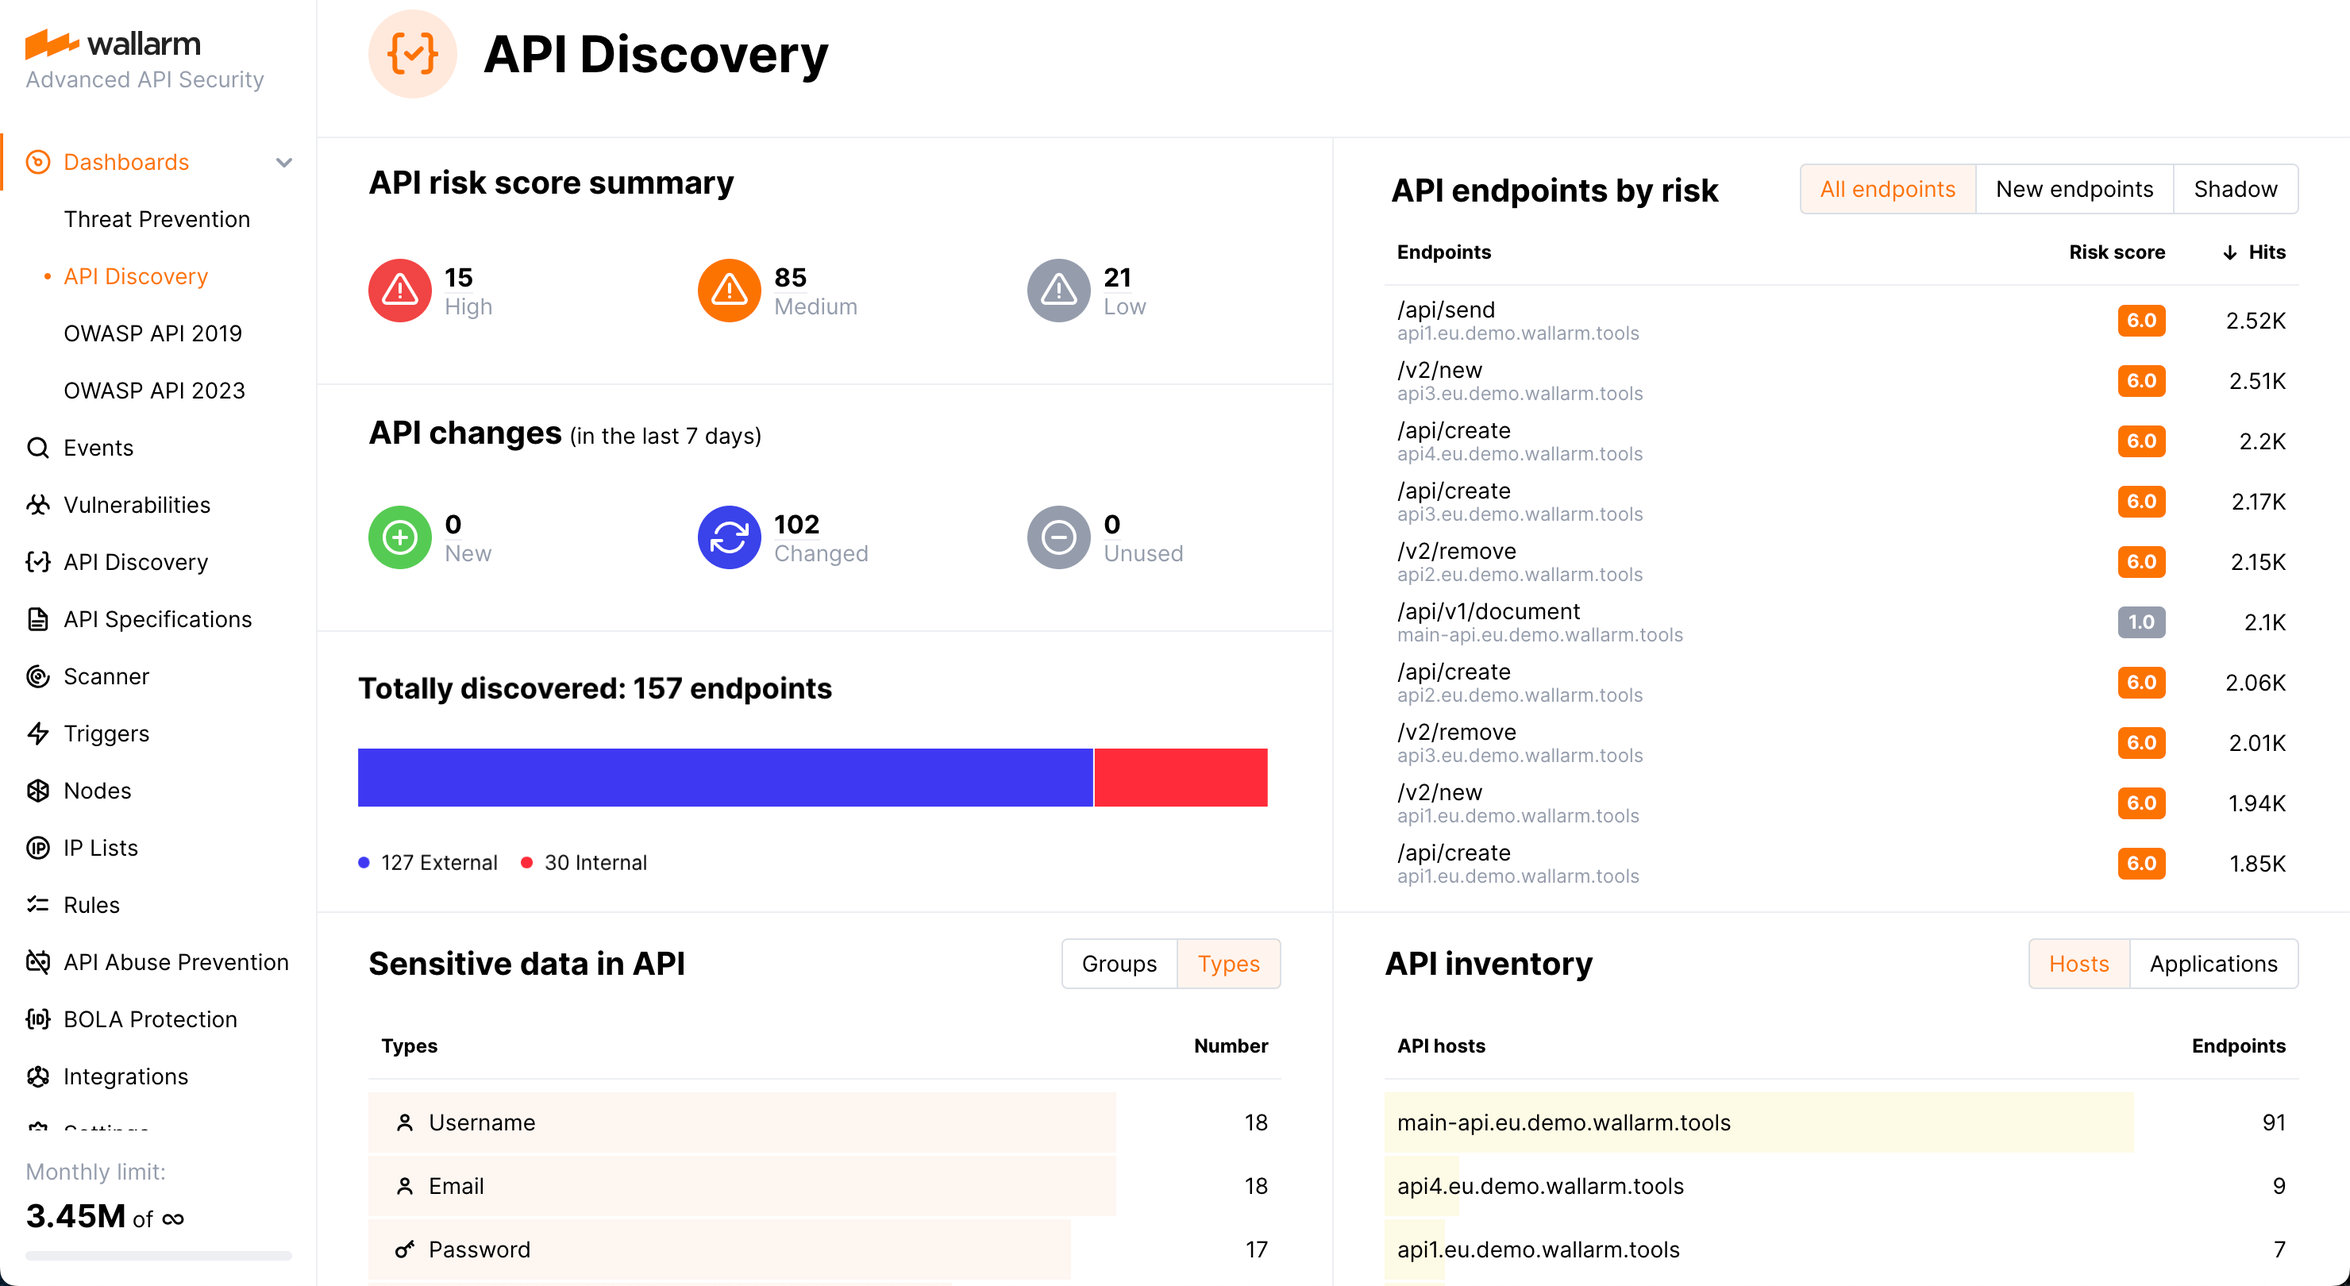
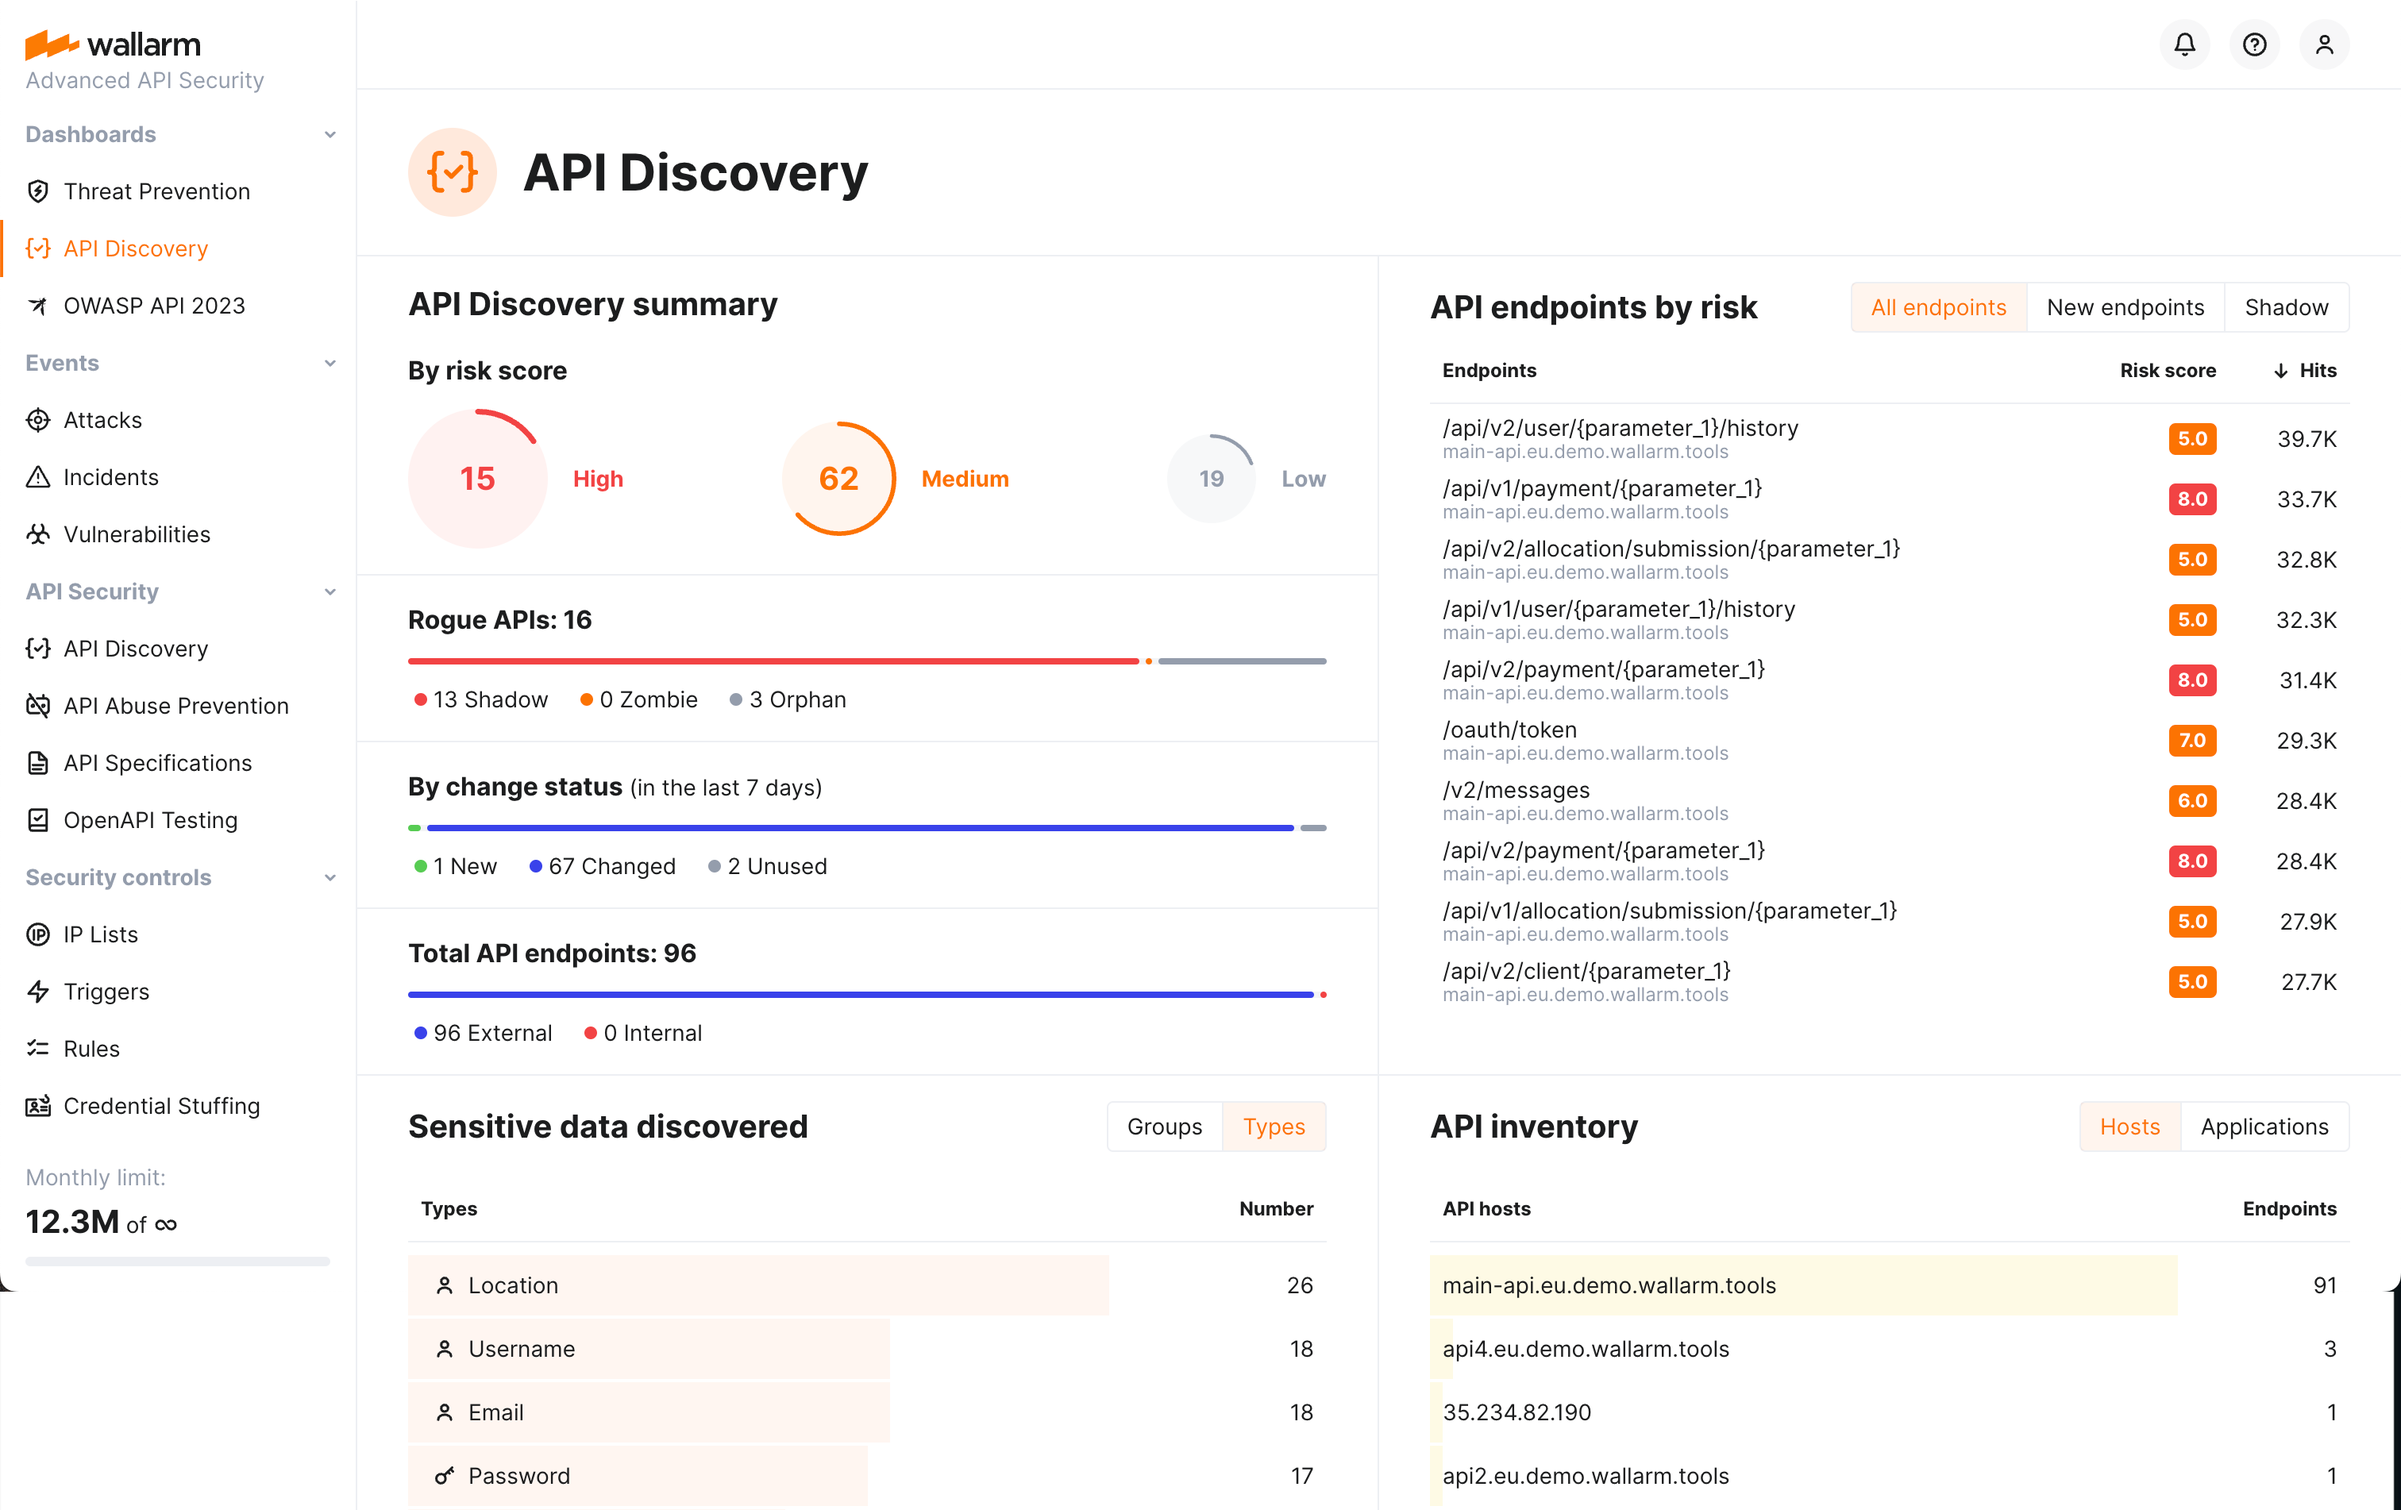
DOCS-2358 API Discovery dashboard redesigned

diff --git a/include/api-discovery/dashboard.md b/include/api-discovery/dashboard.md
@@ -4,7 +4,8 @@ The **API Discovery** Wallarm dashboard summarizes data about your API collected
 * The [top risky][apid-risk-score] endpoints among the whole API inventory and among the newly discovered endpoints in the last 7 days
 
     The top risky endpoints are most likely to be an attack target due to active vulnerabilities, endpoints being [new][apid-track-changes] or [shadow][apid-rogue], and other risk factors. Each risky endpoint is provided with the number of targeting hits.
-            
+
+* Number of identified [rogue][apid-rogue] (shadow, zombie and orphan) APIs      
 * Changes of your API in the last 7 days by type (new, changed, unused APIs)
 * Total number of discovered endpoints and how many of them are external and internal
 * Sensitive data in API by groups (personal, finance, etc.) and by types
